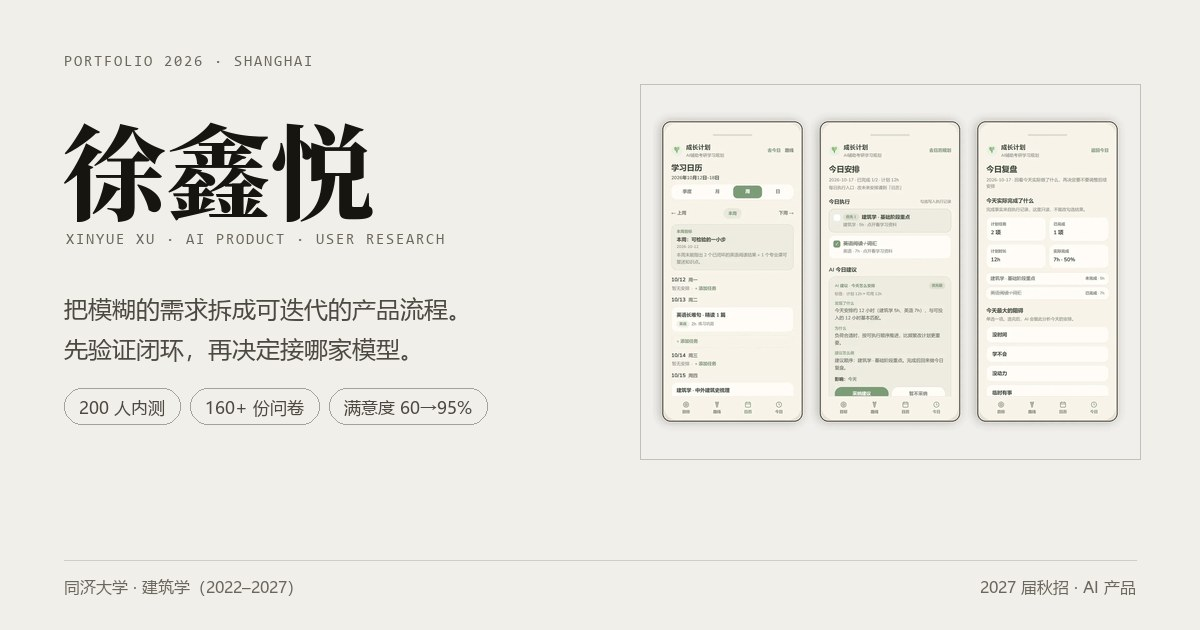
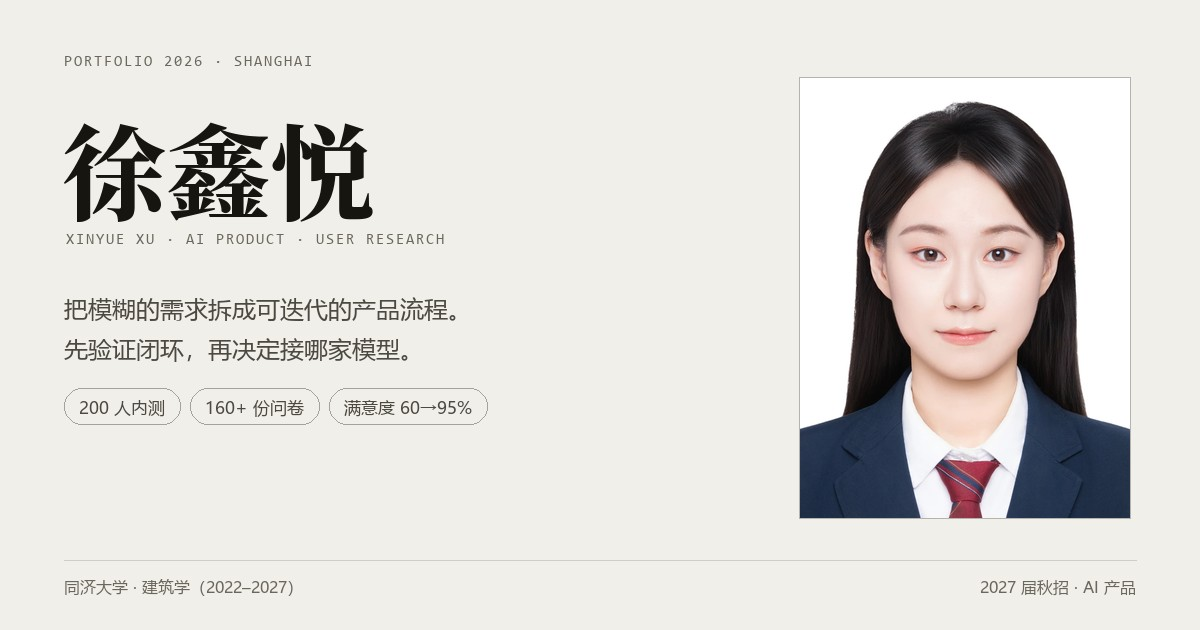
加入证件照：关于区肖像 + 分享卡换人像

Changed region(s): [[0.5242, 0.1206, 0.9558, 0.8444]]

diff --git a/js/app.js b/js/app.js
@@ -360,7 +360,7 @@
     var left = document.createElement('div');
     if (p.avatar) {
       left.innerHTML = '<figure class="portrait">' +
-        '<div class="portrait__box" data-seed="avatar" data-fallback="blank" data-src="' + attr(p.avatar) + '" data-label="PORTRAIT" data-alt="' + esc(t(p.name)) + '"></div>' +
+        '<div class="portrait__box" data-seed="avatar" data-eager="1" data-fallback="blank" data-src="' + attr(p.avatar) + '" data-label="PORTRAIT" data-alt="' + esc(t(p.name)) + '"></div>' +
         '<figcaption class="portrait__dim"><span>' + esc(pt.ratio || '3 : 4') + '</span><span>' + esc(t(p.name)) + '</span></figcaption></figure>';
     } else {
       var idRows = (a.idcard || []).map(function (r) {

diff --git a/js/data.js b/js/data.js
@@ -31,7 +31,7 @@ window.SITE_DATA = {
     email:     '1345341356@qq.com',
     phone:     '15809626115',
     wechat:    '',
-    avatar:    '',                        // 例：'assets/images/avatar.jpg'；留空显示占位框
+    avatar:    'assets/images/avatar.webp',  // 3:4 证件照；留空则显示档案卡
     links: [
       // { label: 'GitHub', url: 'https://github.com/...' },
     ],
